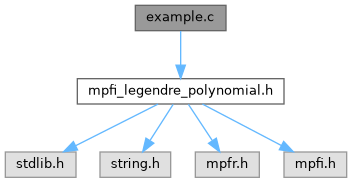
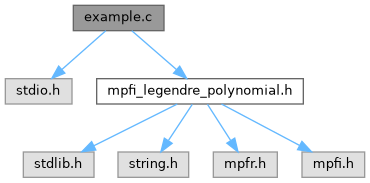
deploy: b9fe2cdc4d7bbc675170926e0953aecf06fe6f32

Changed region(s): [[0.0, 0.0, 0.8438, 0.5738], [0.0, 0.5738, 0.9688, 0.9836]]

diff --git a/example_8c.html b/example_8c.html
@@ -95,23 +95,26 @@ $(document).ready(function(){initNavTree('example_8c.html',''); initResizable();
   <div class="headertitle"><div class="title">example.c File Reference</div></div>
 </div><!--header-->
 <div class="contents">
-<div class="textblock"><code>#include &quot;<a class="el" href="mpfi__legendre__polynomial_8h_source.html">mpfi_legendre_polynomial.h</a>&quot;</code><br />
+<div class="textblock"><code>#include &lt;stdio.h&gt;</code><br />
+<code>#include &quot;<a class="el" href="mpfi__legendre__polynomial_8h_source.html">mpfi_legendre_polynomial.h</a>&quot;</code><br />
 </div><div class="textblock"><div class="dynheader">
 Include dependency graph for example.c:</div>
 <div class="dyncontent">
 <div class="center"><img src="example_8c__incl.png" border="0" usemap="#aexample_8c" alt=""/></div>
 <map name="aexample_8c" id="aexample_8c">
-<area shape="rect" title=" " alt="" coords="135,5,226,31"/>
-<area shape="rect" href="mpfi__legendre__polynomial_8h.html" title=" " alt="" coords="77,79,284,104"/>
-<area shape="poly" title=" " alt="" coords="183,31,183,65,178,65,178,31"/>
-<area shape="rect" title=" " alt="" coords="5,152,76,177"/>
-<area shape="poly" title=" " alt="" coords="159,106,77,148,74,143,157,102"/>
-<area shape="rect" title=" " alt="" coords="100,152,171,177"/>
-<area shape="poly" title=" " alt="" coords="175,106,152,142,148,139,171,103"/>
-<area shape="rect" title=" " alt="" coords="195,152,259,177"/>
-<area shape="poly" title=" " alt="" coords="191,103,214,139,210,142,186,106"/>
-<area shape="rect" title=" " alt="" coords="284,152,347,177"/>
-<area shape="poly" title=" " alt="" coords="204,102,282,143,280,148,201,106"/>
+<area shape="rect" title=" " alt="" coords="73,5,164,31"/>
+<area shape="rect" title=" " alt="" coords="5,79,72,104"/>
+<area shape="poly" title=" " alt="" coords="108,33,64,72,60,68,104,29"/>
+<area shape="rect" href="mpfi__legendre__polynomial_8h.html" title=" " alt="" coords="97,79,303,104"/>
+<area shape="poly" title=" " alt="" coords="133,29,178,68,175,72,130,33"/>
+<area shape="rect" title=" " alt="" coords="23,152,94,177"/>
+<area shape="poly" title=" " alt="" coords="178,106,95,148,93,143,176,102"/>
+<area shape="rect" title=" " alt="" coords="118,152,189,177"/>
+<area shape="poly" title=" " alt="" coords="195,106,171,142,166,139,190,103"/>
+<area shape="rect" title=" " alt="" coords="213,152,277,177"/>
+<area shape="poly" title=" " alt="" coords="210,103,233,139,228,142,205,106"/>
+<area shape="rect" title=" " alt="" coords="302,152,365,177"/>
+<area shape="poly" title=" " alt="" coords="223,102,301,143,298,148,220,106"/>
 </map>
 </div>
 </div>
@@ -142,10 +145,10 @@ Functions</h2></td></tr>
 </div><!-- fragment --> </dd></dl>
 <dl class="section version"><dt>Version</dt><dd>Experimental </dd></dl>
 
-<p class="definition">Definition at line <a class="el" href="example_8c_source.html#l00012">12</a> of file <a class="el" href="example_8c_source.html">example.c</a>.</p>
-<div class="fragment"><div class="line"><span class="lineno">   13</span>{</div>
-<div class="line"><span class="lineno">   14</span>    printf(<span class="stringliteral">&quot;The example completed successfully.\n&quot;</span>);</div>
-<div class="line"><span class="lineno">   15</span>}</div>
+<p class="definition">Definition at line <a class="el" href="example_8c_source.html#l00013">13</a> of file <a class="el" href="example_8c_source.html">example.c</a>.</p>
+<div class="fragment"><div class="line"><span class="lineno">   14</span>{</div>
+<div class="line"><span class="lineno">   15</span>    printf(<span class="stringliteral">&quot;The example completed successfully.\n&quot;</span>);</div>
+<div class="line"><span class="lineno">   16</span>}</div>
 </div><!-- fragment -->
 </div>
 </div>

diff --git a/example_8c_source.html b/example_8c_source.html
@@ -98,16 +98,17 @@ $(document).ready(function(){initNavTree('example_8c_source.html',''); initResiz
   <div class="headertitle"><div class="title">example.c</div></div>
 </div><!--header-->
 <div class="contents">
-<a href="example_8c.html">Go to the documentation of this file.</a><div class="fragment"><div class="line"><a id="l00001" name="l00001"></a><span class="lineno">    1</span><span class="preprocessor">#include &quot;<a class="code" href="mpfi__legendre__polynomial_8h.html">mpfi_legendre_polynomial.h</a>&quot;</span></div>
-<div class="line"><a id="l00002" name="l00002"></a><span class="lineno">    2</span> </div>
+<a href="example_8c.html">Go to the documentation of this file.</a><div class="fragment"><div class="line"><a id="l00001" name="l00001"></a><span class="lineno">    1</span><span class="preprocessor">#include &lt;stdio.h&gt;</span></div>
+<div class="line"><a id="l00002" name="l00002"></a><span class="lineno">    2</span><span class="preprocessor">#include &quot;<a class="code" href="mpfi__legendre__polynomial_8h.html">mpfi_legendre_polynomial.h</a>&quot;</span></div>
 <div class="line"><a id="l00003" name="l00003"></a><span class="lineno">    3</span> </div>
-<div class="foldopen" id="foldopen00012" data-start="{" data-end="}">
-<div class="line"><a id="l00012" name="l00012"></a><span class="lineno"><a class="line" href="example_8c.html#a840291bc02cba5474a4cb46a9b9566fe">   12</a></span><span class="keywordtype">int</span> <a class="code hl_function" href="example_8c.html#a840291bc02cba5474a4cb46a9b9566fe">main</a>(<span class="keywordtype">void</span>)</div>
-<div class="line"><a id="l00013" name="l00013"></a><span class="lineno">   13</span>{</div>
-<div class="line"><a id="l00014" name="l00014"></a><span class="lineno">   14</span>    printf(<span class="stringliteral">&quot;The example completed successfully.\n&quot;</span>);</div>
-<div class="line"><a id="l00015" name="l00015"></a><span class="lineno">   15</span>}</div>
+<div class="line"><a id="l00004" name="l00004"></a><span class="lineno">    4</span> </div>
+<div class="foldopen" id="foldopen00013" data-start="{" data-end="}">
+<div class="line"><a id="l00013" name="l00013"></a><span class="lineno"><a class="line" href="example_8c.html#a840291bc02cba5474a4cb46a9b9566fe">   13</a></span><span class="keywordtype">int</span> <a class="code hl_function" href="example_8c.html#a840291bc02cba5474a4cb46a9b9566fe">main</a>(<span class="keywordtype">void</span>)</div>
+<div class="line"><a id="l00014" name="l00014"></a><span class="lineno">   14</span>{</div>
+<div class="line"><a id="l00015" name="l00015"></a><span class="lineno">   15</span>    printf(<span class="stringliteral">&quot;The example completed successfully.\n&quot;</span>);</div>
+<div class="line"><a id="l00016" name="l00016"></a><span class="lineno">   16</span>}</div>
 </div>
-<div class="ttc" id="aexample_8c_html_a840291bc02cba5474a4cb46a9b9566fe"><div class="ttname"><a href="example_8c.html#a840291bc02cba5474a4cb46a9b9566fe">main</a></div><div class="ttdeci">int main(void)</div><div class="ttdef"><b>Definition</b> <a href="example_8c_source.html#l00012">example.c:12</a></div></div>
+<div class="ttc" id="aexample_8c_html_a840291bc02cba5474a4cb46a9b9566fe"><div class="ttname"><a href="example_8c.html#a840291bc02cba5474a4cb46a9b9566fe">main</a></div><div class="ttdeci">int main(void)</div><div class="ttdef"><b>Definition</b> <a href="example_8c_source.html#l00013">example.c:13</a></div></div>
 <div class="ttc" id="ampfi__legendre__polynomial_8h_html"><div class="ttname"><a href="mpfi__legendre__polynomial_8h.html">mpfi_legendre_polynomial.h</a></div></div>
 </div><!-- fragment --></div><!-- contents -->
 </div><!-- doc-content -->
